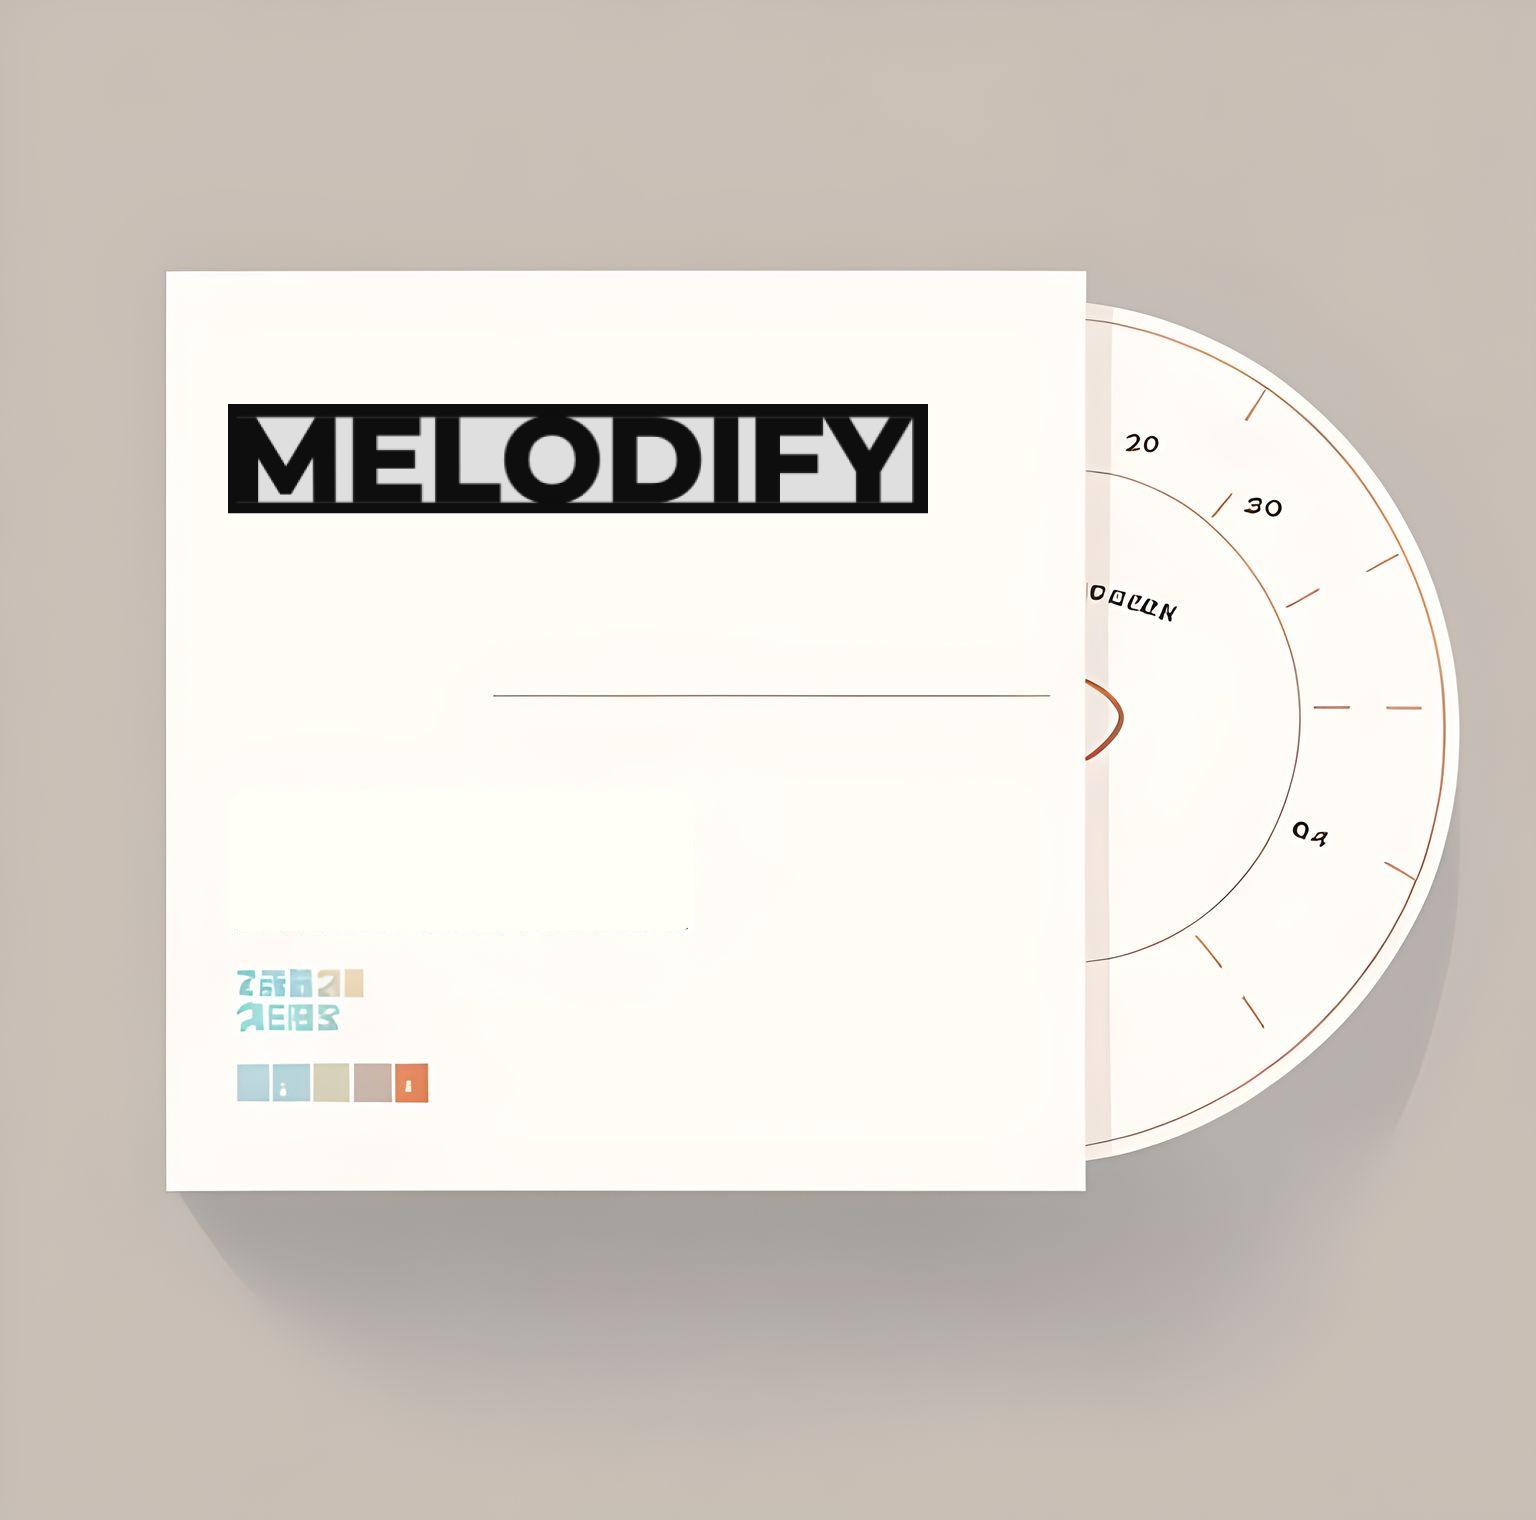
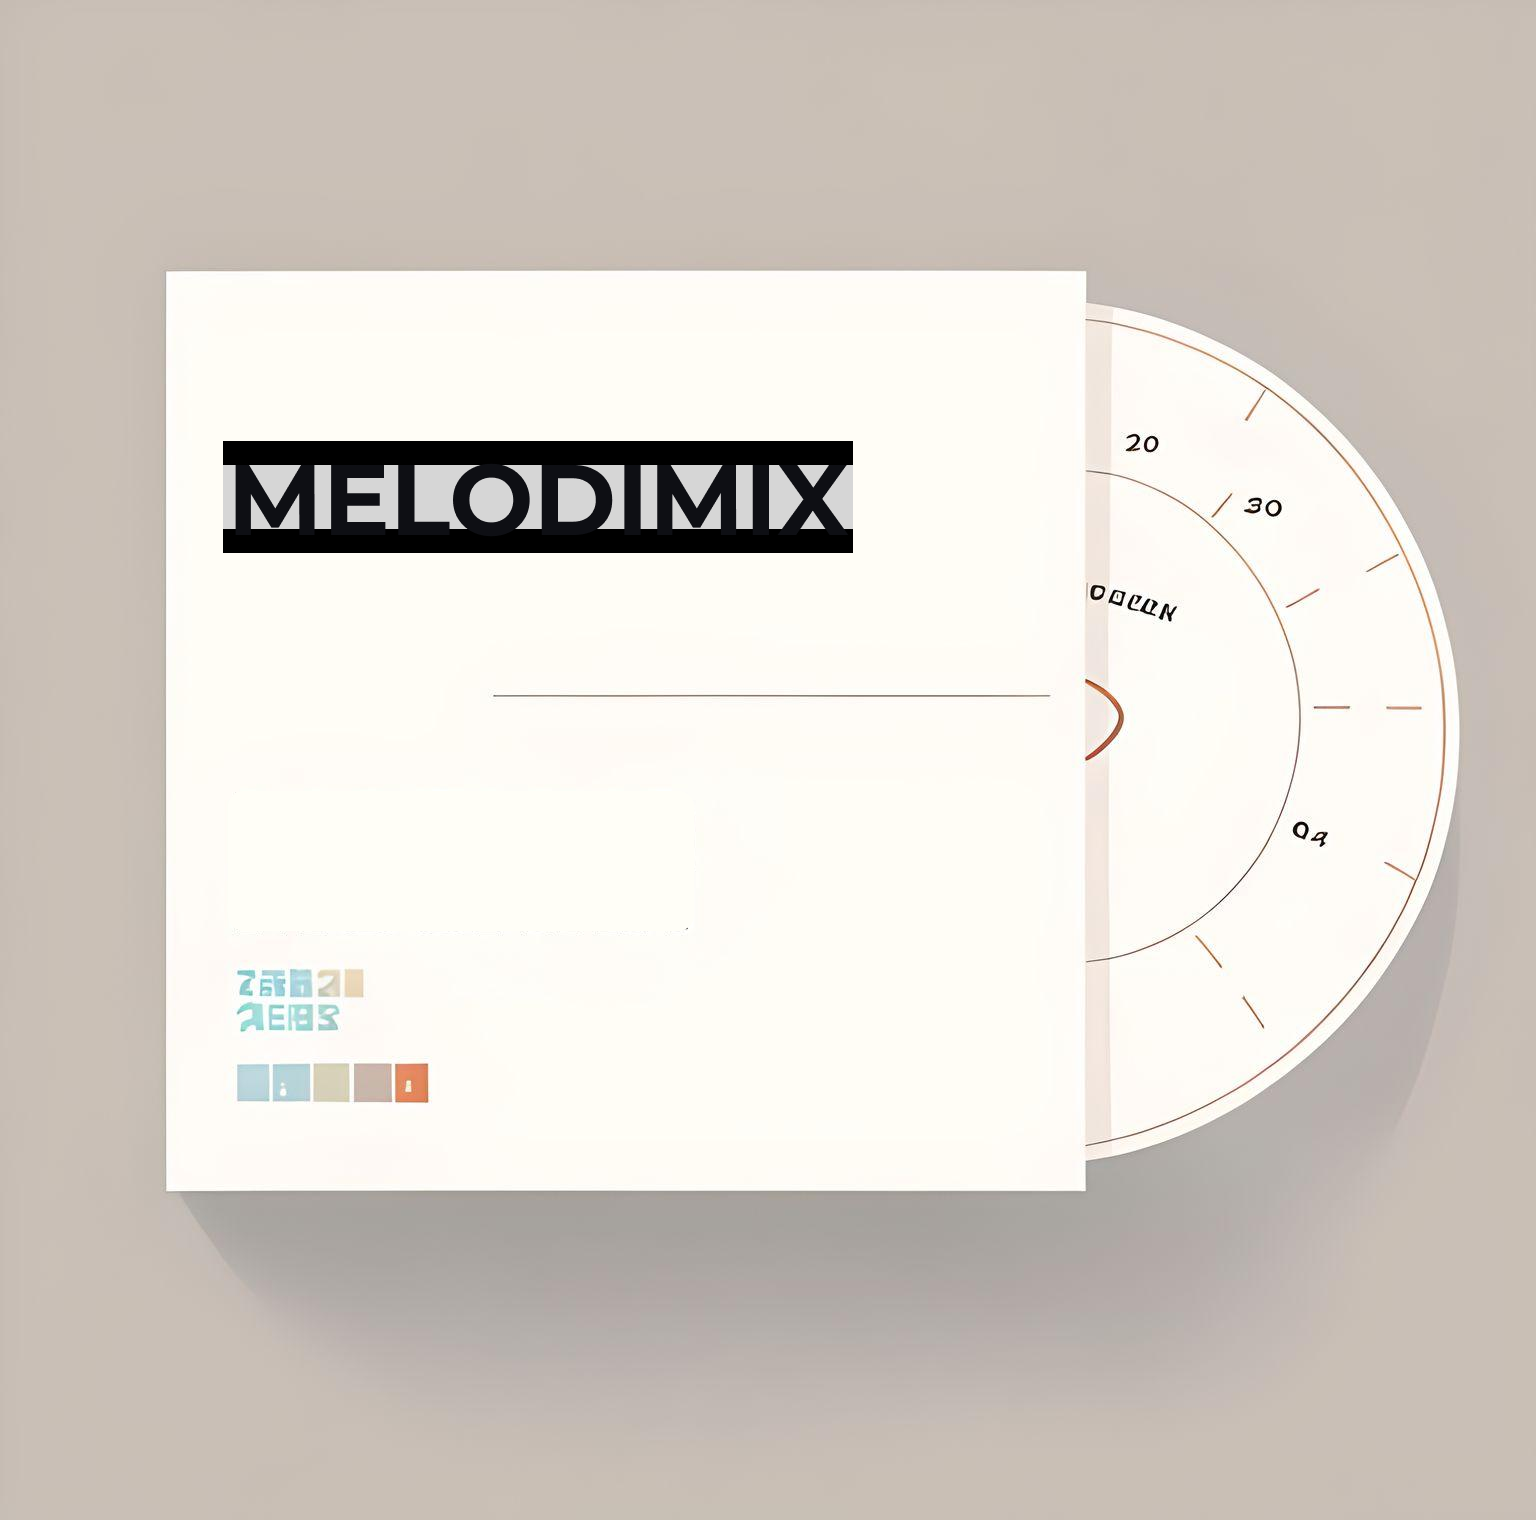
Update UI for empty states.

Changed region(s): [[0.125, 0.2474, 0.625, 0.3711]]

diff --git a/components/Modals/ModalAddTrack.js b/components/Modals/ModalAddTrack.js
@@ -104,62 +104,75 @@ export default function ModalAddTrack({ idsong, playlist, spotifyAPI }) {
                     </RadioGroup.Label>
                     {/* ALERT */}
                     {message ? <AlertFail message={message} /> : null}
-                    {/* LIST PLAYLISTS */}
-                    {playlist?.items?.map((playlist, i) => (
-                      <RadioGroup.Option
-                        key={playlist.id}
-                        value={playlist.id}
-                        className={({ active, chacked }) =>
-                          `${
-                            active
-                              ? "ring-2 ring-white/60 ring-offset-2 ring-offset-gray-300 bg-gray-200"
-                              : ""
-                          } 
+                    {playlist?.items >= 0 ? (
+                      <>
+                        <div className="flex flex-wrap gap-4 justify-center md:justify-start">
+                          <div className="p-5 text-gray-800 text-sm md:text-base flex justify-center items-center w-full h-20 border text-center bg-white shadow-lg rounded-lg">
+                            Oops sepertinya kamu masih belum memiliki daftar
+                            putar musik.
+                          </div>
+                        </div>
+                      </>
+                    ) : (
+                      <>
+                        {/* LIST PLAYLISTS */}
+                        {playlist?.items?.map((playlist, i) => (
+                          <RadioGroup.Option
+                            key={playlist.id}
+                            value={playlist.id}
+                            className={({ active, chacked }) =>
+                              `${
+                                active
+                                  ? "ring-2 ring-white/60 ring-offset-2 ring-offset-gray-300 bg-gray-200"
+                                  : ""
+                              } 
                         relative flex cursor-pointer rounded-lg focus:outline-none hover:bg-gray-300 delay-100 bg-transparent duration-300 mb-1
                         `
-                        }
-                      >
-                        {({ active, chacked }) => (
-                          <div className="flex justify-start items-center text-left w-full p-2 rounded-md ">
-                            {playlist.images[0] ? (
-                              <img
-                                src={playlist.images?.[0]?.url}
-                                className="rounded-md aspect-square object-cover w-16 mb-1 mr-3"
-                                width={64}
-                                height={64}
-                                alt="Album Img"
-                              />
-                            ) : (
-                              <img
-                                className="rounded-md aspect-square object-cover w-16 mb-1 mr-3"
-                                src="/imgs/albumCover.png"
-                                width={64}
-                                height={64}
-                                alt="Album Image"
-                              />
+                            }
+                          >
+                            {({ active, chacked }) => (
+                              <div className="flex justify-start items-center text-left w-full p-2 rounded-md ">
+                                {playlist.images[0] ? (
+                                  <img
+                                    src={playlist.images?.[0]?.url}
+                                    className="rounded-md aspect-square object-cover w-16 mb-1 mr-3"
+                                    width={64}
+                                    height={64}
+                                    alt="Album Img"
+                                  />
+                                ) : (
+                                  <img
+                                    className="rounded-md aspect-square object-cover w-16 mb-1 mr-3"
+                                    src="/imgs/albumCover.png"
+                                    width={64}
+                                    height={64}
+                                    alt="Album Image"
+                                  />
+                                )}
+                                <div>
+                                  <RadioGroup.Label
+                                    as="p"
+                                    className={`text-base font-semibold truncate ${
+                                      chacked ? "text-white" : "text-gray-800"
+                                    } mb-1`}
+                                  >
+                                    {playlist.name}
+                                  </RadioGroup.Label>
+                                  <RadioGroup.Description
+                                    as="span"
+                                    className={`text-sm font-normal ${
+                                      chacked ? "text-sky-100" : "text-gray-800"
+                                    } text-opacity-50 line-clamp-1 mb-2`}
+                                  >
+                                    {playlist.description}
+                                  </RadioGroup.Description>
+                                </div>
+                              </div>
                             )}
-                            <div>
-                              <RadioGroup.Label
-                                as="p"
-                                className={`text-base font-semibold truncate ${
-                                  chacked ? "text-white" : "text-gray-800"
-                                } mb-1`}
-                              >
-                                {playlist.name}
-                              </RadioGroup.Label>
-                              <RadioGroup.Description
-                                as="span"
-                                className={`text-sm font-normal ${
-                                  chacked ? "text-sky-100" : "text-gray-800"
-                                } text-opacity-50 line-clamp-1 mb-2`}
-                              >
-                                {playlist.description}
-                              </RadioGroup.Description>
-                            </div>
-                          </div>
-                        )}
-                      </RadioGroup.Option>
-                    ))}
+                          </RadioGroup.Option>
+                        ))}
+                      </>
+                    )}
                   </RadioGroup>
                   <div className="w-full flex justify-end gap-4 mt-4">
                     <button

diff --git a/pages/index.js b/pages/index.js
@@ -108,18 +108,32 @@ export default function HomePage() {
         <div className="md:basis-1/2">
           {/* Top Track */}
           <div className="w-full mt-12 px-5 py-6 text-gray-800 bg-white p-4 rounded-md shadow-md">
-            <h2 className="text-lg font-bold">Musik Yang Sering Kamu Putar</h2>
-            {userTopTracks?.items.slice(0, 5).map((items, i) => (
-              <SongComp
-                key={items.id}
-                track={items}
-                playlist={userPlaylists}
-                order={i}
-                spotifyAPI={spotifyAPI}
-                length={false}
-                modelComponent={"Model1"}
-              />
-            ))}
+            <h2 className="text-lg font-bold mb-2">
+              Musik Yang Sering Kamu Putar
+            </h2>
+            {userTopTracks?.items >= 0 ? (
+              <>
+                <div className="flex flex-wrap gap-4 justify-center md:justify-start">
+                  <div className="p-5 text-gray-800 text-sm md:text-base flex justify-center items-center w-full h-20 border text-center bg-white shadow-lg rounded-lg">
+                    Oops sepertinya kamu masih belum memiliki musik favorit.
+                  </div>
+                </div>
+              </>
+            ) : (
+              <>
+                {userTopTracks?.items.slice(0, 5).map((items, i) => (
+                  <SongComp
+                    key={items.id}
+                    track={items}
+                    playlist={userPlaylists}
+                    order={i}
+                    spotifyAPI={spotifyAPI}
+                    length={false}
+                    modelComponent={"Model1"}
+                  />
+                ))}
+              </>
+            )}
           </div>
           {/* card playlist */}
           <div className="mt-12">
@@ -135,9 +149,22 @@ export default function HomePage() {
               </button>
             </div>
             <div className="flex flex-wrap gap-4 justify-center">
-              {userPlaylists?.items?.slice(0, 4).map((playlist) => (
-                <PlaylistComp key={playlist.id} playlist={playlist} />
-              ))}
+              {userPlaylists?.items >= 0 ? (
+                <>
+                  <div className="flex flex-wrap gap-4 justify-center md:justify-start">
+                    <div className="p-5 text-gray-800 text-sm md:text-base flex justify-center items-center w-full h-20 border text-center bg-white shadow-lg rounded-lg">
+                      Oops sepertinya kamu masih belum memiliki daftar putar
+                      musik.
+                    </div>
+                  </div>
+                </>
+              ) : (
+                <>
+                  {userPlaylists?.items?.slice(0, 4).map((playlist) => (
+                    <PlaylistComp key={playlist.id} playlist={playlist} />
+                  ))}
+                </>
+              )}
             </div>
           </div>
         </div>

diff --git a/pages/playlistPage/[id].js b/pages/playlistPage/[id].js
@@ -145,18 +145,30 @@ export default function selectedPlaylistPage({ playlistId }) {
           {/* User Top Track */}
           <div className="w-full mt-12 px-5 py-6 text-gray-800 bg-white p-4 rounded-md shadow-md">
             <h2 className="text-lg font-bold">Musik Favoritmu</h2>
-            {userTopTracks?.items.slice(0, 5).map((items, i) => (
-              <SongComp
-                key={items.id}
-                track={items}
-                playlist={userPlaylists}
-                order={i}
-                spotifyAPI={spotifyAPI}
-                length={false}
-                modelComponent={"Model2"}
-                playlistId={playlistId}
-              />
-            ))}
+            {userTopTracks?.items >= 0 ? (
+              <>
+                <div className="flex flex-wrap gap-4 justify-center md:justify-start">
+                  <div className="p-5 text-gray-800 text-sm md:text-base flex justify-center items-center w-full h-20 border text-center bg-white shadow-lg rounded-lg">
+                    Oops sepertinya kamu masih belum memiliki musik favorit.
+                  </div>
+                </div>
+              </>
+            ) : (
+              <>
+                {userTopTracks?.items.slice(0, 5).map((items, i) => (
+                  <SongComp
+                    key={items.id}
+                    track={items}
+                    playlist={userPlaylists}
+                    order={i}
+                    spotifyAPI={spotifyAPI}
+                    length={false}
+                    modelComponent={"Model2"}
+                    playlistId={playlistId}
+                  />
+                ))}
+              </>
+            )}
           </div>
         </div>
       </div>

diff --git a/pages/playlistPage/index.js b/pages/playlistPage/index.js
@@ -50,11 +50,19 @@ export default function playlistsPage() {
             <h2 className="text-lg text-gray-800 font-bold mb-4">
               Daftar Putar Kamu
             </h2>
-            <div className="flex flex-wrap gap-4 justify-center md:justify-start">
-              {userPlaylists?.items?.map((playlist, i) => (
-                <PlaylistComp key={i} playlist={playlist} />
-              ))}
-            </div>
+            {userPlaylists?.items >= 0 ? (
+              <div className="flex flex-wrap gap-4 justify-center md:justify-start">
+                <div className="p-5 text-gray-800 text-sm md:text-base flex justify-center items-center w-full h-20 border text-center bg-white shadow-lg rounded-lg">
+                  Oops sepertinya kamu masih belum memiliki daftar putar musik.
+                </div>
+              </div>
+            ) : (
+              <div className="flex flex-wrap gap-4 justify-center md:justify-start">
+                {userPlaylists?.items?.map((playlist, i) => (
+                  <PlaylistComp key={i} playlist={playlist} />
+                ))}
+              </div>
+            )}
           </div>
         </div>
         {/* flex kanan */}

diff --git a/components/Layout/Footer.js b/components/Layout/Footer.js
@@ -3,15 +3,17 @@ import React from "react";
 export default function Footer() {
   return (
     <>
-      <footer class="text-slate-400">
-        <div class="bg-gradient-to-r from-[#252525] via-zinc-800 to-zinc-700">
-          <div class="relative container px-5 py-6 mx-auto flex items-center sm:flex-row flex-col">
+      <footer className="text-slate-400">
+        <div className="bg-gradient-to-r from-[#252525] via-zinc-800 to-zinc-700">
+          <div className="relative container px-5 py-6 mx-auto flex items-center sm:flex-row flex-col">
             <p>
               Powered By{" "}
               <span className="font-bold text-slate-300">Spotify</span>
             </p>
-            <span class="inline-flex sm:ml-auto sm:mr-10 mr-0 sm:mt-0 mt-4 justify-center sm:justify-start">
-              <p class="text-sm sm:mt-0 mt-4">© 2023 Copyright - Melodimix</p>
+            <span className="inline-flex sm:ml-auto sm:mr-10 mr-0 sm:mt-0 mt-4 justify-center sm:justify-start">
+              <p className="text-sm sm:mt-0 mt-4">
+                © 2023 Copyright - Melodimix
+              </p>
             </span>
           </div>
         </div>

diff --git a/pages/recommendationsPage/index.js b/pages/recommendationsPage/index.js
@@ -90,7 +90,7 @@ export default function recommendationsPage() {
   const handleSaveRecommendationsMusik = () => {
     if (spotifyAPI.getAccessToken()) {
       spotifyAPI
-        .createPlaylist(`Melodify | ${currentMood}`, {
+        .createPlaylist(`Melodimix | ${currentMood}`, {
           description: `Daftar putar musik ${selectedGenre} ketika mood ${banner}`,
           public: false,
         })

diff --git a/hooks/useGetUserPlaylists.js b/hooks/useGetUserPlaylists.js
@@ -1,7 +1,7 @@
 import { useEffect, useState } from "react";
 
 export default function useGetUserPlaylists({ spotifyAPI, userId }) {
-  const [userPlaylists, setUserPlaylists] = useState([]);
+  const [userPlaylists, setUserPlaylists] = useState();
 
   useEffect(() => {
     if (spotifyAPI.getAccessToken(userId)) {
